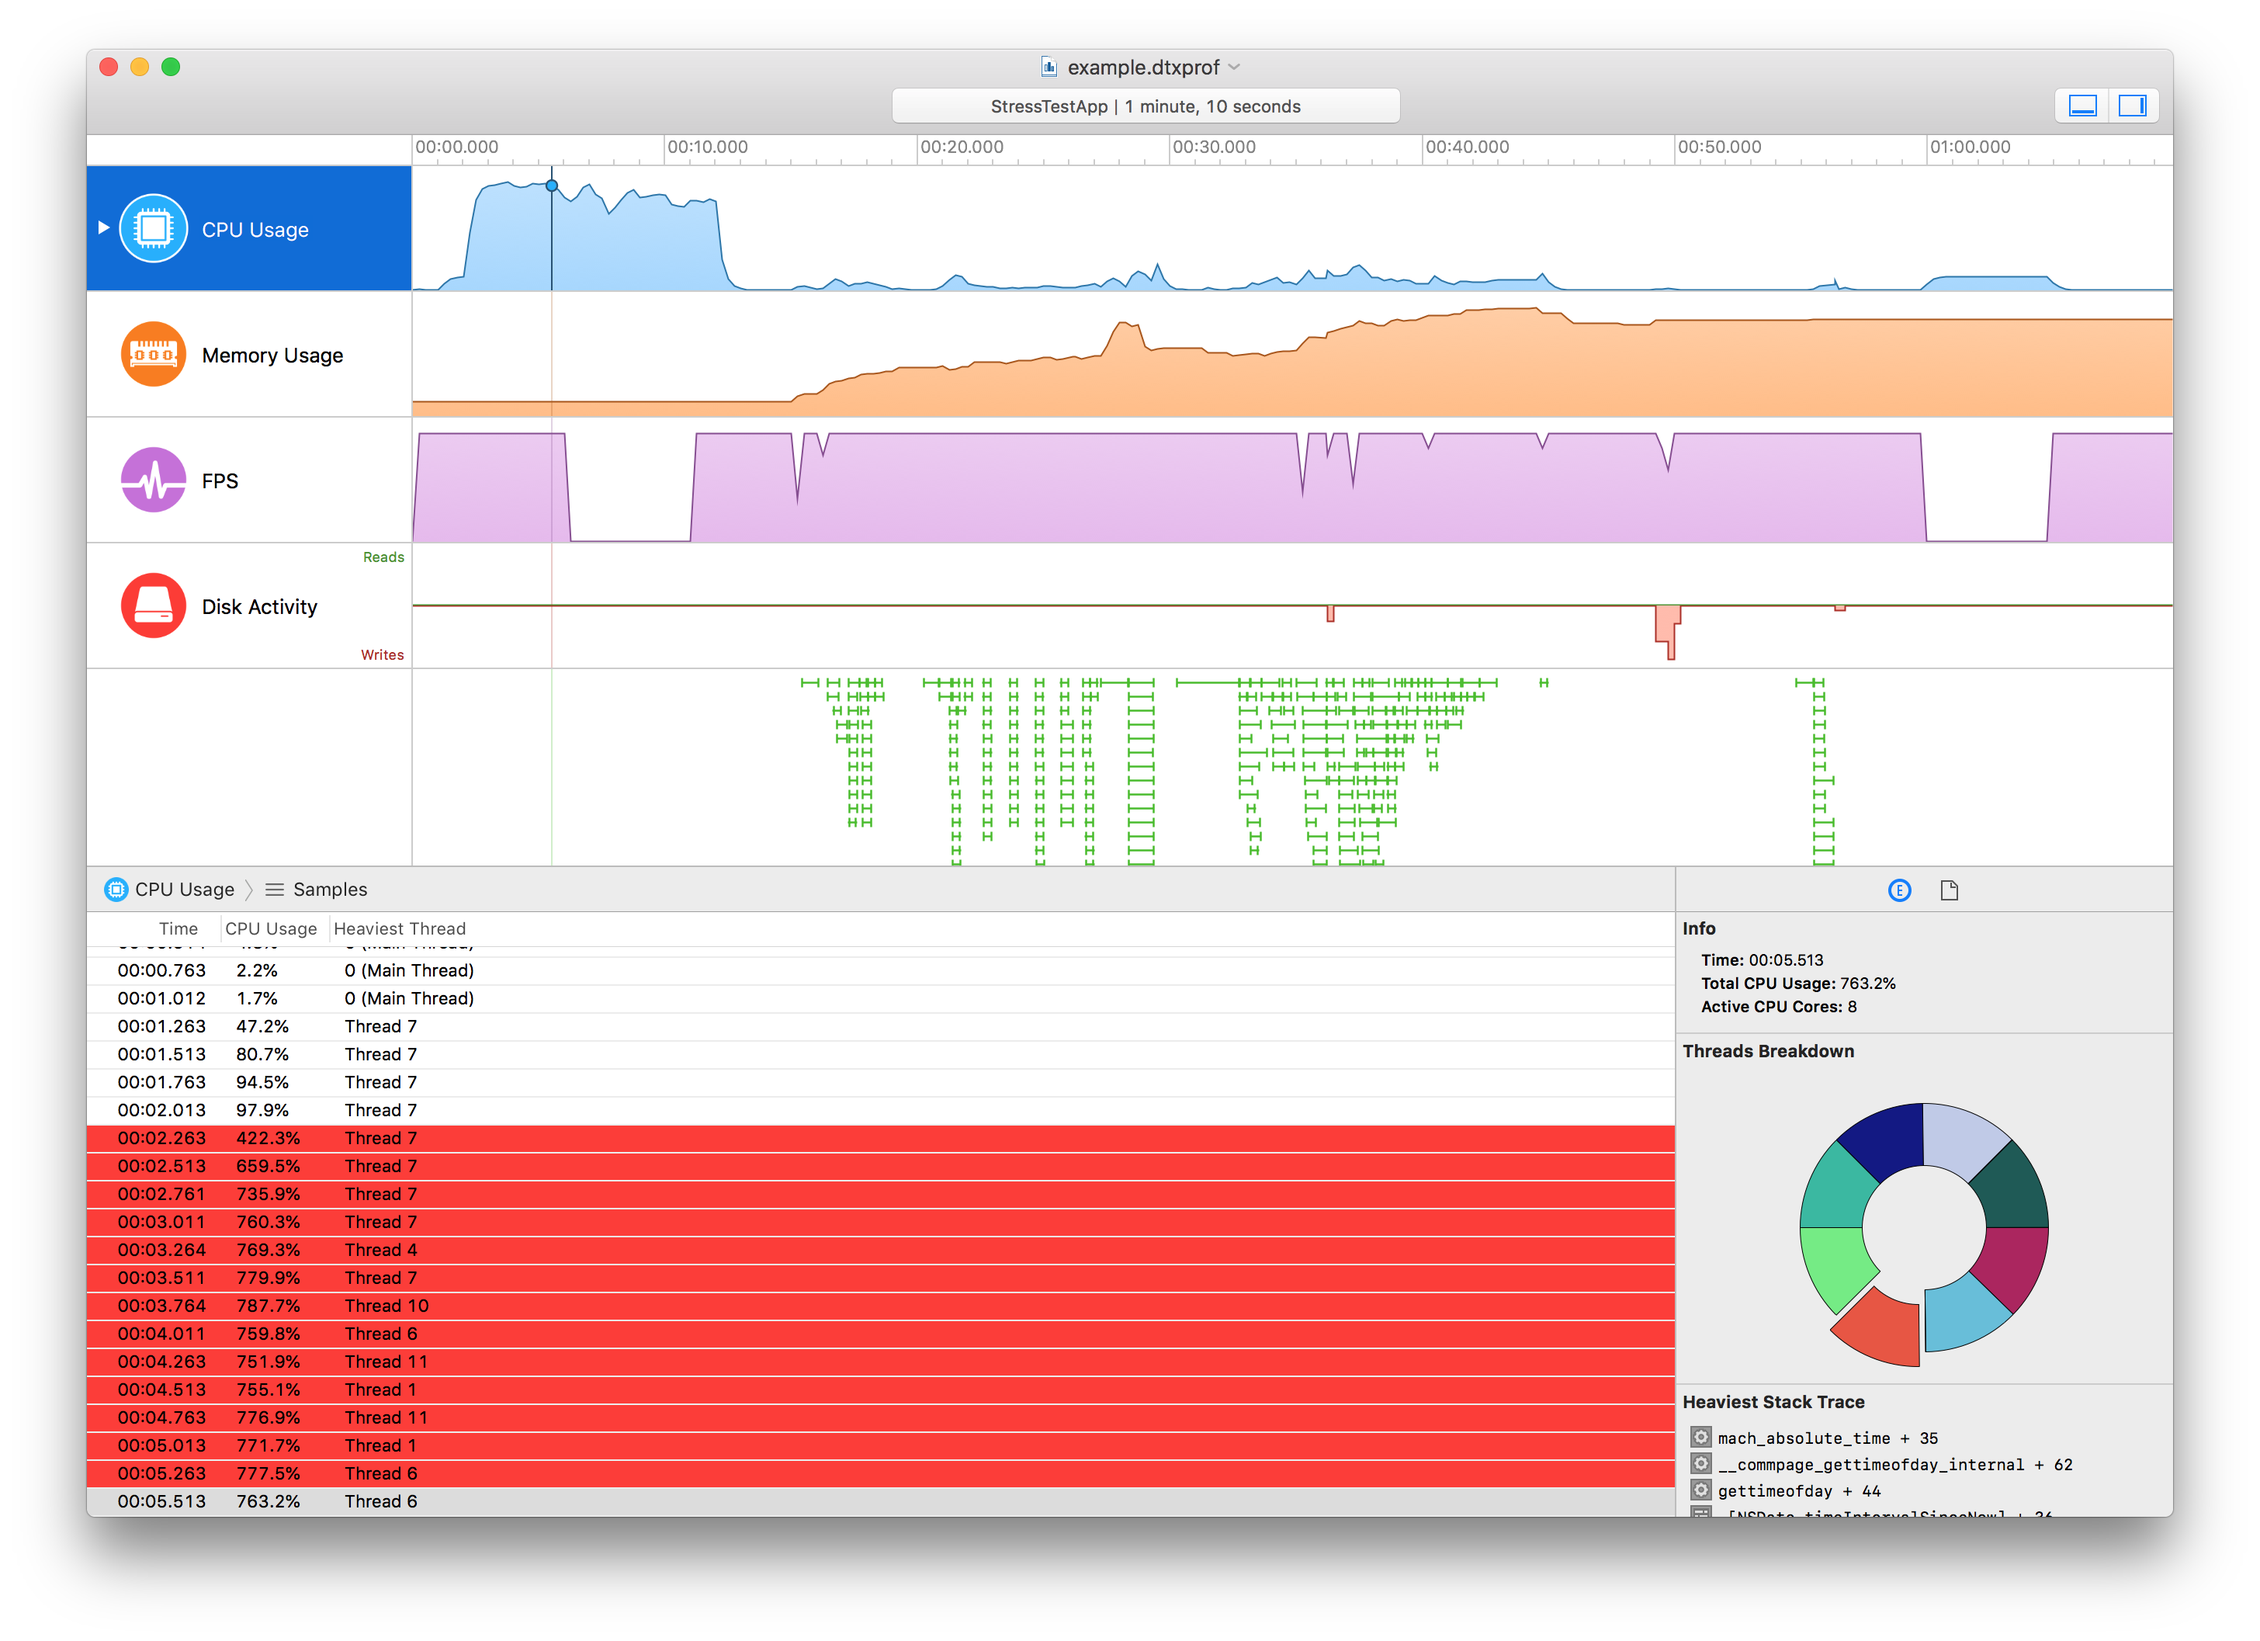
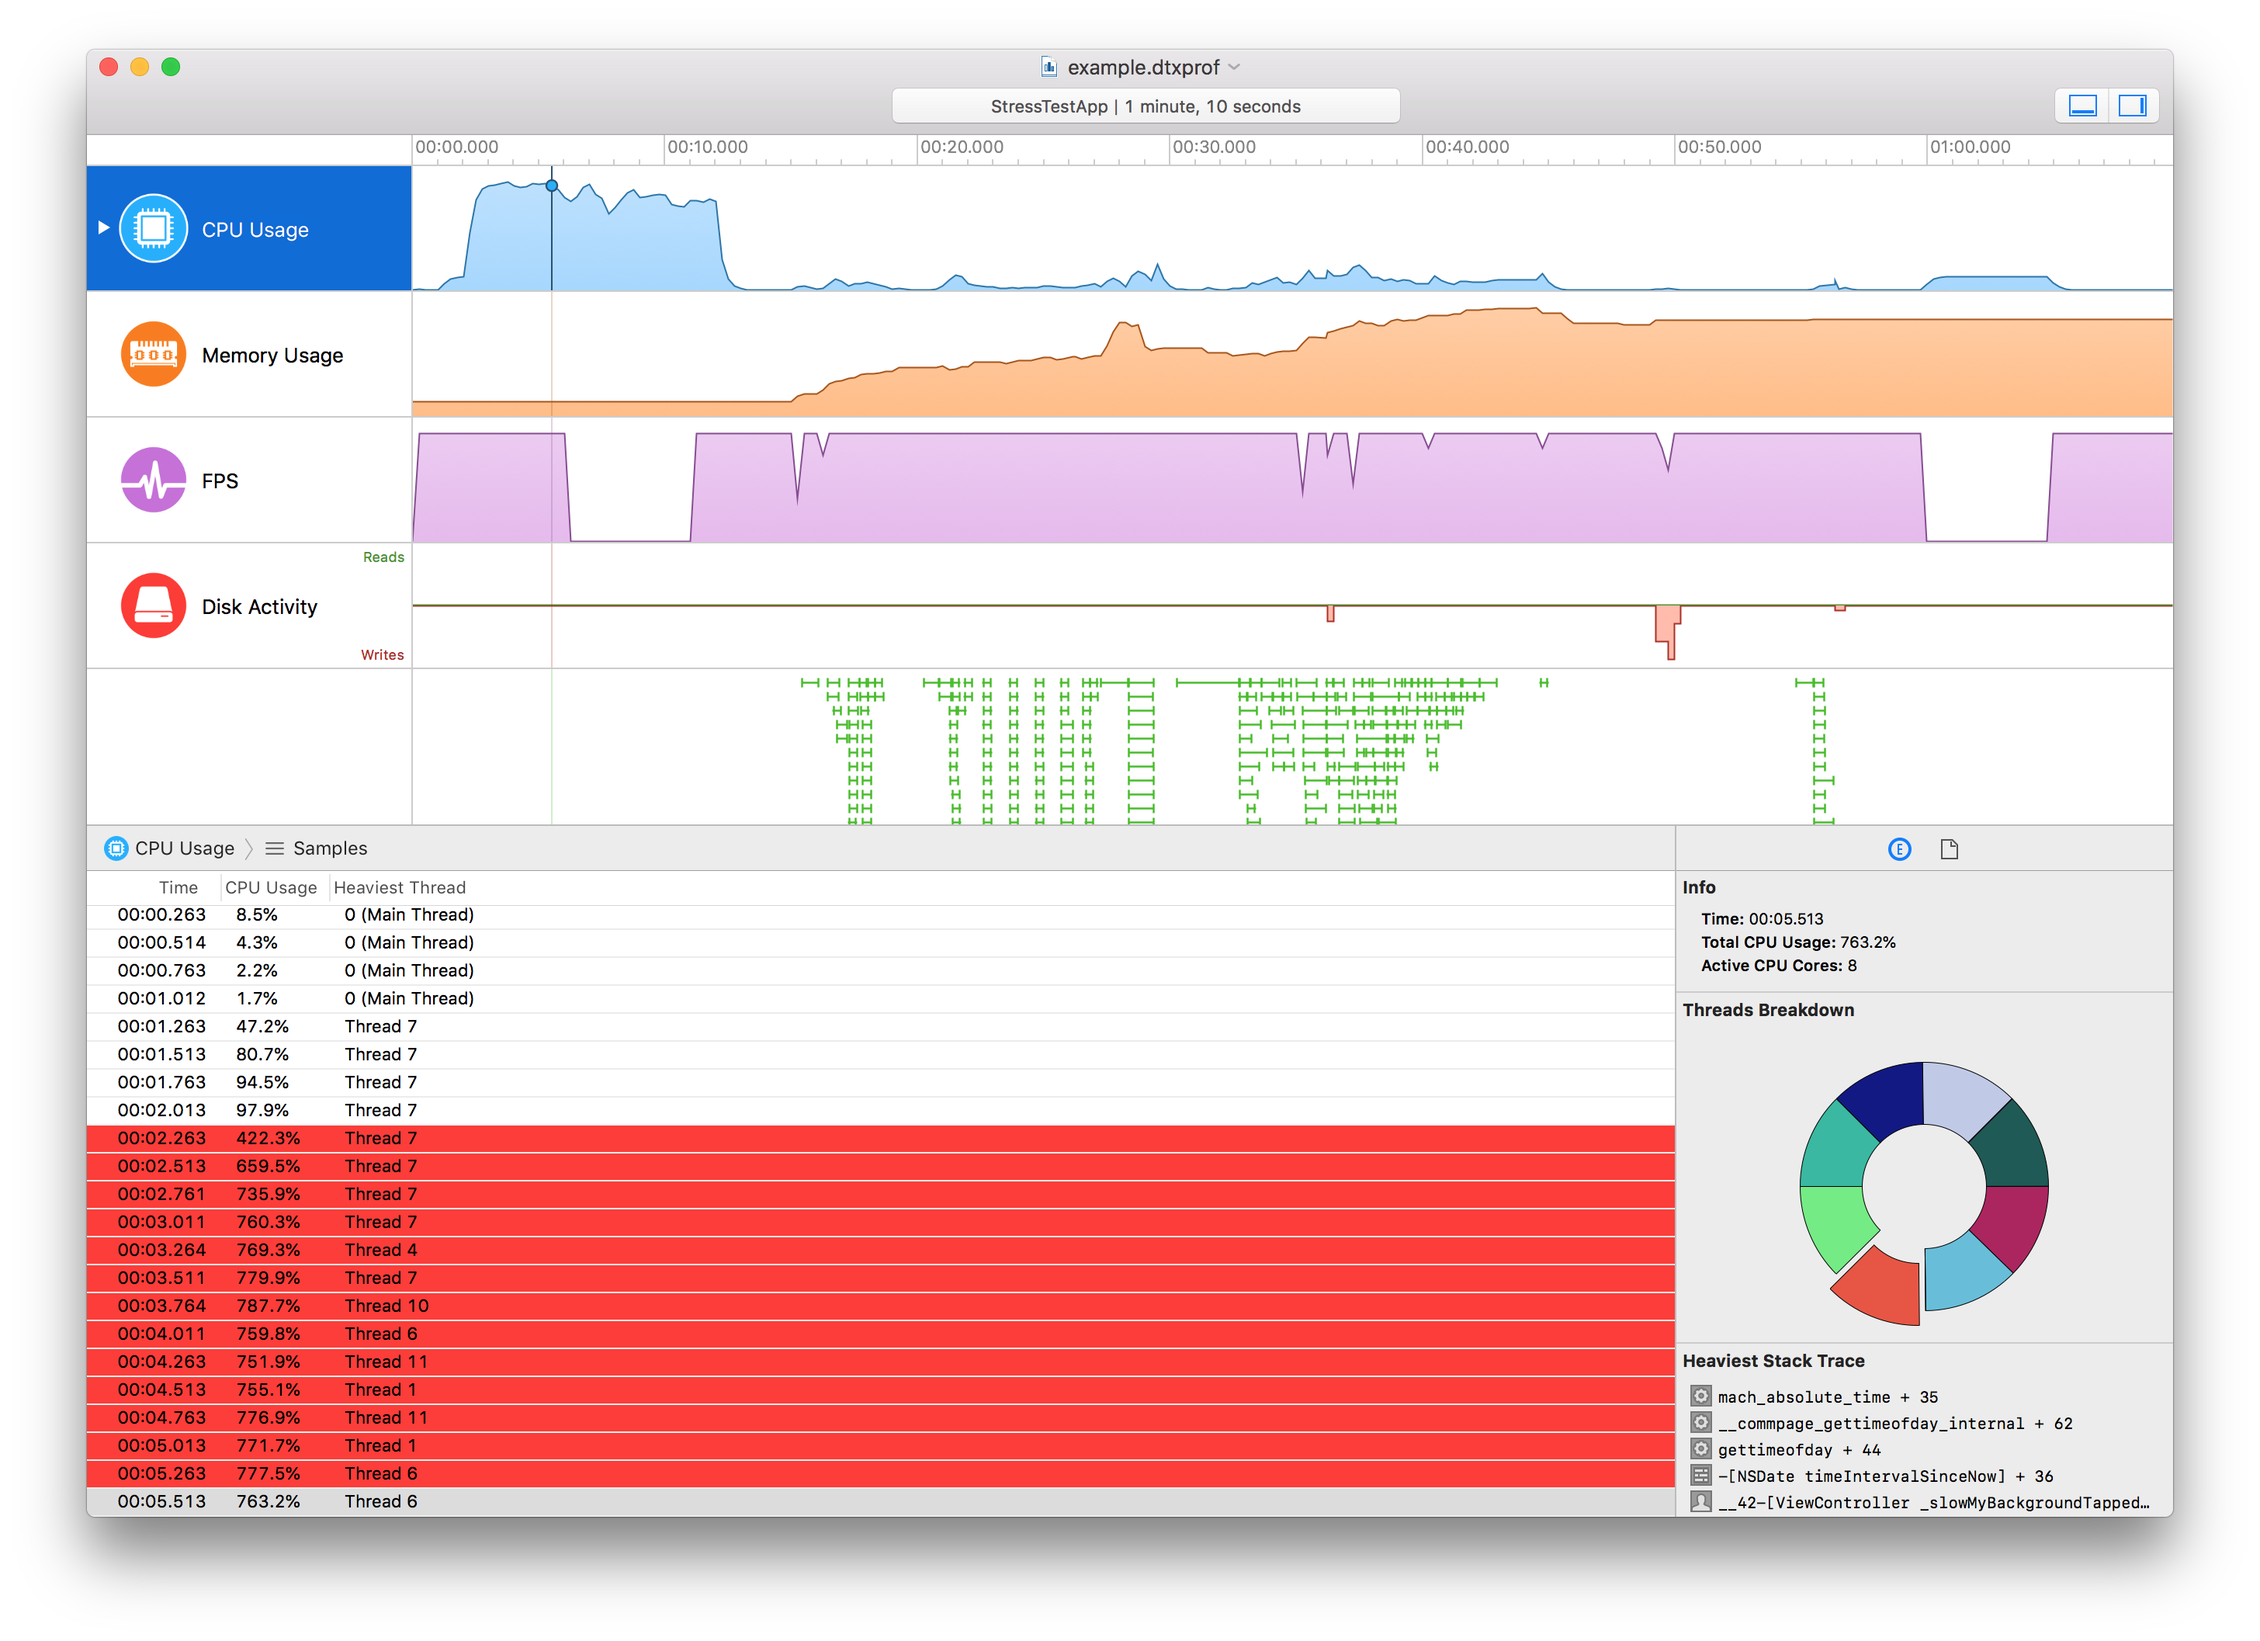
Small screenshot generation tweaks

diff --git a/DetoxInstruments/DetoxInstruments/DocumentationGeneration/DTXApplicationDelegate+DocumentationGeneration.m b/DetoxInstruments/DetoxInstruments/DocumentationGeneration/DTXApplicationDelegate+DocumentationGeneration.m
@@ -37,7 +37,12 @@ static const CGFloat __inspectorPaneOverviewImagePadding = 35;
 		NSMenu* helpMenu = NSApp.mainMenu.itemArray.lastObject.submenu;
 		
 		[helpMenu addItem:[NSMenuItem separatorItem]];
-		[helpMenu addItemWithTitle:@"Generate Documentation Screenshots" action:@selector(_generateDocScreenshots:) keyEquivalent:@""];
+		
+		NSMenuItem* item = [NSMenuItem new];
+		item.attributedTitle = [[NSAttributedString alloc] initWithString:@"Generate Documentation Screenshots" attributes:@{NSForegroundColorAttributeName: NSColor.systemRedColor}];
+		item.action = @selector(_generateDocScreenshots:);
+		
+		[helpMenu addItem:item];
 		
 		__classToNameMapping = @{
 								 NSStringFromClass(DTXCPUUsagePlotController.class): @{@"name": @"CPUUsage", @"inspectorSample": @166, @"includeInRecordingDocumentInspectorPane": @0},
@@ -59,6 +64,29 @@ static const CGFloat __inspectorPaneOverviewImagePadding = 35;
 
 - (IBAction)_generateDocScreenshots:(id)sender
 {
+	__block NSScreen* retinaScreen = nil;
+	
+	[NSScreen.screens enumerateObjectsUsingBlock:^(NSScreen * _Nonnull obj, NSUInteger idx, BOOL * _Nonnull stop) {
+		if(obj.backingScaleFactor >= 2)
+		{
+			*stop = YES;
+			retinaScreen = obj;
+		}
+	}];
+	
+	if(retinaScreen == nil)
+	{
+		NSBeep();
+		
+		NSAlert *errorAlert = [[NSAlert alloc] init];
+		errorAlert.alertStyle = NSAlertStyleCritical;
+		errorAlert.messageText = @"No retina screen found";
+		errorAlert.informativeText = @"Screenshots must be generated on a retina screen.";
+		[errorAlert runModal];
+		
+		return;
+	}
+	
 	[NSApp.orderedDocuments enumerateObjectsUsingBlock:^(NSDocument * _Nonnull obj, NSUInteger idx, BOOL * _Nonnull stop) {
 		[obj close];
 	}];
@@ -66,7 +94,10 @@ static const CGFloat __inspectorPaneOverviewImagePadding = 35;
 	NSDocument* newDocument = [NSDocumentController.sharedDocumentController openUntitledDocumentAndDisplay:YES error:NULL];
 	DTXInstrumentsWindowController* windowController = newDocument.windowControllers.firstObject;
 	
-	[windowController _setWindowSizeToScreenPercentage:CGPointMake(0.8, 0.9)];
+	[windowController.window constrainFrameRect:windowController.window.frame toScreen:retinaScreen];
+	[windowController.window makeKeyAndOrderFront:nil];
+	[windowController _setWindowSize:NSMakeSize(1344, 945)];
+	[windowController _setBottomSplitAtPercentage:0.53];
 	[windowController _drainLayout];
 	
 	NSBitmapImageRep* rep = (NSBitmapImageRep*)[windowController _snapshotForTargetSelection].representations.firstObject;
@@ -84,18 +115,25 @@ static const CGFloat __inspectorPaneOverviewImagePadding = 35;
 		
 		DTXInstrumentsWindowController* windowController = document.windowControllers.firstObject;
 		
-		[windowController _setWindowSizeToScreenPercentage:CGPointMake(0.8, 0.9)];
-		
+		[windowController.window constrainFrameRect:windowController.window.frame toScreen:retinaScreen];
+		[windowController.window makeKeyAndOrderFront:nil];
+		[windowController _setWindowSize:NSMakeSize(1344, 945)];
+		[windowController _setBottomSplitAtPercentage:0.53];
+		[windowController _removeDetailVerticalScroller];
 		[windowController _drainLayout];
 		
 		[windowController _selectSampleAtIndex:__defaultSample.integerValue forPlotControllerClass:DTXCPUUsagePlotController.class];
 		
 		[windowController _drainLayout];
 		
+		NSBitmapImageRep* repIntro = (NSBitmapImageRep*)[windowController.window snapshotForCachingDisplay].representations.firstObject;
+		[[repIntro representationUsingType:NSPNGFileType properties:@{}] writeToFile:[self._resourcesURL URLByAppendingPathComponent:@"Readme_Intro.png"].path atomically:YES];
+		
+		[windowController _setWindowSize:NSMakeSize(1176, 945)];
 		[windowController _setRecordingButtonsVisible:YES];
 		[windowController _drainLayout];
 		
-		NSBitmapImageRep* repIntro = (NSBitmapImageRep*)[windowController.window snapshotForCachingDisplay].representations.firstObject;
+		repIntro = (NSBitmapImageRep*)[windowController.window snapshotForCachingDisplay].representations.firstObject;
 		
 		NSBitmapImageRep* rep = (NSBitmapImageRep*)[self _exampleImageWithExistingRep:repIntro].representations.firstObject;
 		[[rep representationUsingType:NSPNGFileType properties:@{}] writeToFile:[self._resourcesURL URLByAppendingPathComponent:@"RecordingDocument_Example.png"].path atomically:YES];
@@ -106,12 +144,6 @@ static const CGFloat __inspectorPaneOverviewImagePadding = 35;
 		[[rep representationUsingType:NSPNGFileType properties:@{}] writeToFile:[self._resourcesURL URLByAppendingPathComponent:@"RecordingDocument_Toolbar.png"].path atomically:YES];
 		
 		[windowController _setRecordingButtonsVisible:NO];
-		[windowController _drainLayout];
-		
-		repIntro = (NSBitmapImageRep*)[windowController.window snapshotForCachingDisplay].representations.firstObject;
-		[[repIntro representationUsingType:NSPNGFileType properties:@{}] writeToFile:[self._resourcesURL URLByAppendingPathComponent:@"Readme_Intro.png"].path atomically:YES];
-		
-		[windowController _setWindowSizeToScreenPercentage:CGPointMake(0.7, 0.9)];
 		[windowController _drainLayout];
 		
 		NSImage* inspectorPaneOverviewImage = [[NSImage alloc] initWithSize:NSMakeSize(320 * 3 + __inspectorPaneOverviewImagePadding * 6, 511)];
@@ -212,10 +244,10 @@ static const CGFloat __inspectorPaneOverviewImagePadding = 35;
 	NSMutableParagraphStyle* pStyle = [NSParagraphStyle defaultParagraphStyle].mutableCopy;
 	pStyle.alignment = NSTextAlignmentCenter;
 	
-	NSImage* exampleImage = [[NSImage alloc] initWithSize:NSMakeSize(rep.size.width + exampleImageWidthPadding * 2, rep.size.height + exampleImageHeightPadding * 2)];
+	NSImage* exampleImage = [[NSImage alloc] initWithSize:NSMakeSize(rep.size.width + exampleImageWidthPadding * 2, rep.size.height + exampleImageHeightPadding)];
 	[exampleImage lockFocus];
 	
-	[rep drawAtPoint:NSMakePoint(exampleImage.size.width / 2 - rep.size.width / 2, exampleImage.size.height / 2 - rep.size.height / 2 - exampleImageHeightPadding / 1.5)];
+	[rep drawAtPoint:NSMakePoint(exampleImage.size.width / 2 - rep.size.width / 2, exampleImage.size.height / 2 - rep.size.height / 2 - exampleImageHeightPadding)];
 	
 	NSAttributedString* attr = [[NSAttributedString alloc] initWithString:@"Toolbar" attributes:@{NSFontAttributeName: [NSFont systemFontOfSize:exampleFontSize weight:(NSFontWeightRegular + NSFontWeightThin) / 2.2], NSParagraphStyleAttributeName: pStyle}];
 	[attr drawAtPoint:NSMakePoint(toolbarTitleXOffset, exampleImage.size.height - 44 - attr.size.height)];
@@ -227,7 +259,7 @@ static const CGFloat __inspectorPaneOverviewImagePadding = 35;
 	[path moveToPoint:NSMakePoint(toolbarTitleXOffset + attr.size.width / 2, exampleImage.size.height - 44 - attr.size.height - 10)];
 	[path lineToPoint:NSMakePoint(toolbarTitleXOffset + attr.size.width / 2, exampleImage.size.height - 44 - attr.size.height - 10 - lineLength)];
 	
-	const CGFloat timelineTitleYOffset = exampleImage.size.height - 710;
+	const CGFloat timelineTitleYOffset = exampleImage.size.height - 700;
 	
 	attr = [[NSAttributedString alloc] initWithString:@"Timeline" attributes:@{NSFontAttributeName: [NSFont systemFontOfSize:exampleFontSize weight:(NSFontWeightRegular + NSFontWeightThin) / 2.2], NSParagraphStyleAttributeName: pStyle}];
 	[attr drawInRect:(NSRect){570 - lineLength - 20 - attr.size.width, timelineTitleYOffset - attr.size.height / 2 + 20, attr.size}];
@@ -246,7 +278,7 @@ static const CGFloat __inspectorPaneOverviewImagePadding = 35;
 	const CGFloat inspectorTitleYOffset = exampleImage.size.height - 1890;
 	
 	attr = [[NSAttributedString alloc] initWithString:@"Inspector\nPane" attributes:@{NSFontAttributeName: [NSFont systemFontOfSize:exampleFontSize weight:(NSFontWeightRegular + NSFontWeightThin) / 2.2], NSParagraphStyleAttributeName: pStyle}];
-	[attr drawInRect:(NSRect){3220 + lineLength + 20, inspectorTitleYOffset - attr.size.height / 2 + 20, attr.size}];
+	[attr drawInRect:(NSRect){exampleImage.size.width - 572 + lineLength + 20, inspectorTitleYOffset - attr.size.height / 2 + 20, attr.size}];
 	
 	[path moveToPoint:NSMakePoint(exampleImage.size.width - 572, inspectorTitleYOffset)];
 	[path lineToPoint:NSMakePoint(exampleImage.size.width - 572 + lineLength, inspectorTitleYOffset)];

diff --git a/DetoxInstruments/DetoxInstruments/DocumentationGeneration/DTXInstrumentsWindowController+DocumentationGeneration.m b/DetoxInstruments/DetoxInstruments/DocumentationGeneration/DTXInstrumentsWindowController+DocumentationGeneration.m
@@ -37,9 +37,9 @@
 	[[NSRunLoop mainRunLoop] runUntilDate:[NSDate dateWithTimeIntervalSinceNow:0.3]];
 }
 
-- (void)_setWindowSizeToScreenPercentage:(CGPoint)percentage
+- (void)_setWindowSize:(NSSize)size
 {
-	[self.window setFrame:(CGRect){0, 0, CGSizeApplyAffineTransform(self.window.screen.frame.size, CGAffineTransformMakeScale(percentage.x , percentage.y))} display:YES];
+	[self.window setFrame:(CGRect){0, 0, size} display:YES];
 	[self.window center];
 }
 
@@ -112,9 +112,15 @@
 {
 	NSOutlineView* outline = [self valueForKeyPath:@"bottomContentController.activeDetailController.outlineView"];
 	NSScrollView* scrollView = outline.enclosingScrollView;
-	scrollView.hasVerticalScroller = NO;
+	[self _removeDetailVerticalScroller];
 	
 	[scrollView.contentView scrollPoint:NSMakePoint(0, outline.bounds.size.height * percentage)];
+}
+
+- (void)_removeDetailVerticalScroller
+{
+	NSOutlineView* outline = [self valueForKeyPath:@"bottomContentController.activeDetailController.outlineView"];
+	outline.enclosingScrollView.hasVerticalScroller = NO;
 }
 
 - (void)_selectSampleAtIndex:(NSInteger)index forPlotControllerClass:(Class)cls

diff --git a/DetoxInstruments/DetoxInstruments/DocumentationGeneration/DTXInstrumentsWindowController+DocumentationGeneration.h b/DetoxInstruments/DetoxInstruments/DocumentationGeneration/DTXInstrumentsWindowController+DocumentationGeneration.h
@@ -13,7 +13,7 @@
 @interface DTXInstrumentsWindowController (DocumentationGeneration)
 
 - (void)_drainLayout;
-- (void)_setWindowSizeToScreenPercentage:(CGPoint)percentage;
+- (void)_setWindowSize:(NSSize)size;
 - (void)_deselectAnyPlotControllers;
 - (void)_selectPlotControllerOfClass:(Class)cls;
 - (NSImage*)_snapshotForPlotControllerOfClass:(Class)cls;
@@ -29,6 +29,8 @@
 - (NSImage*)_snapshotForRecordingSettings;
 
 - (void)_triggerDetailMenu;
+
+- (void)_removeDetailVerticalScroller;
 
 - (void)_setRecordingButtonsVisible:(BOOL)recordingButtonsVisible;
 
